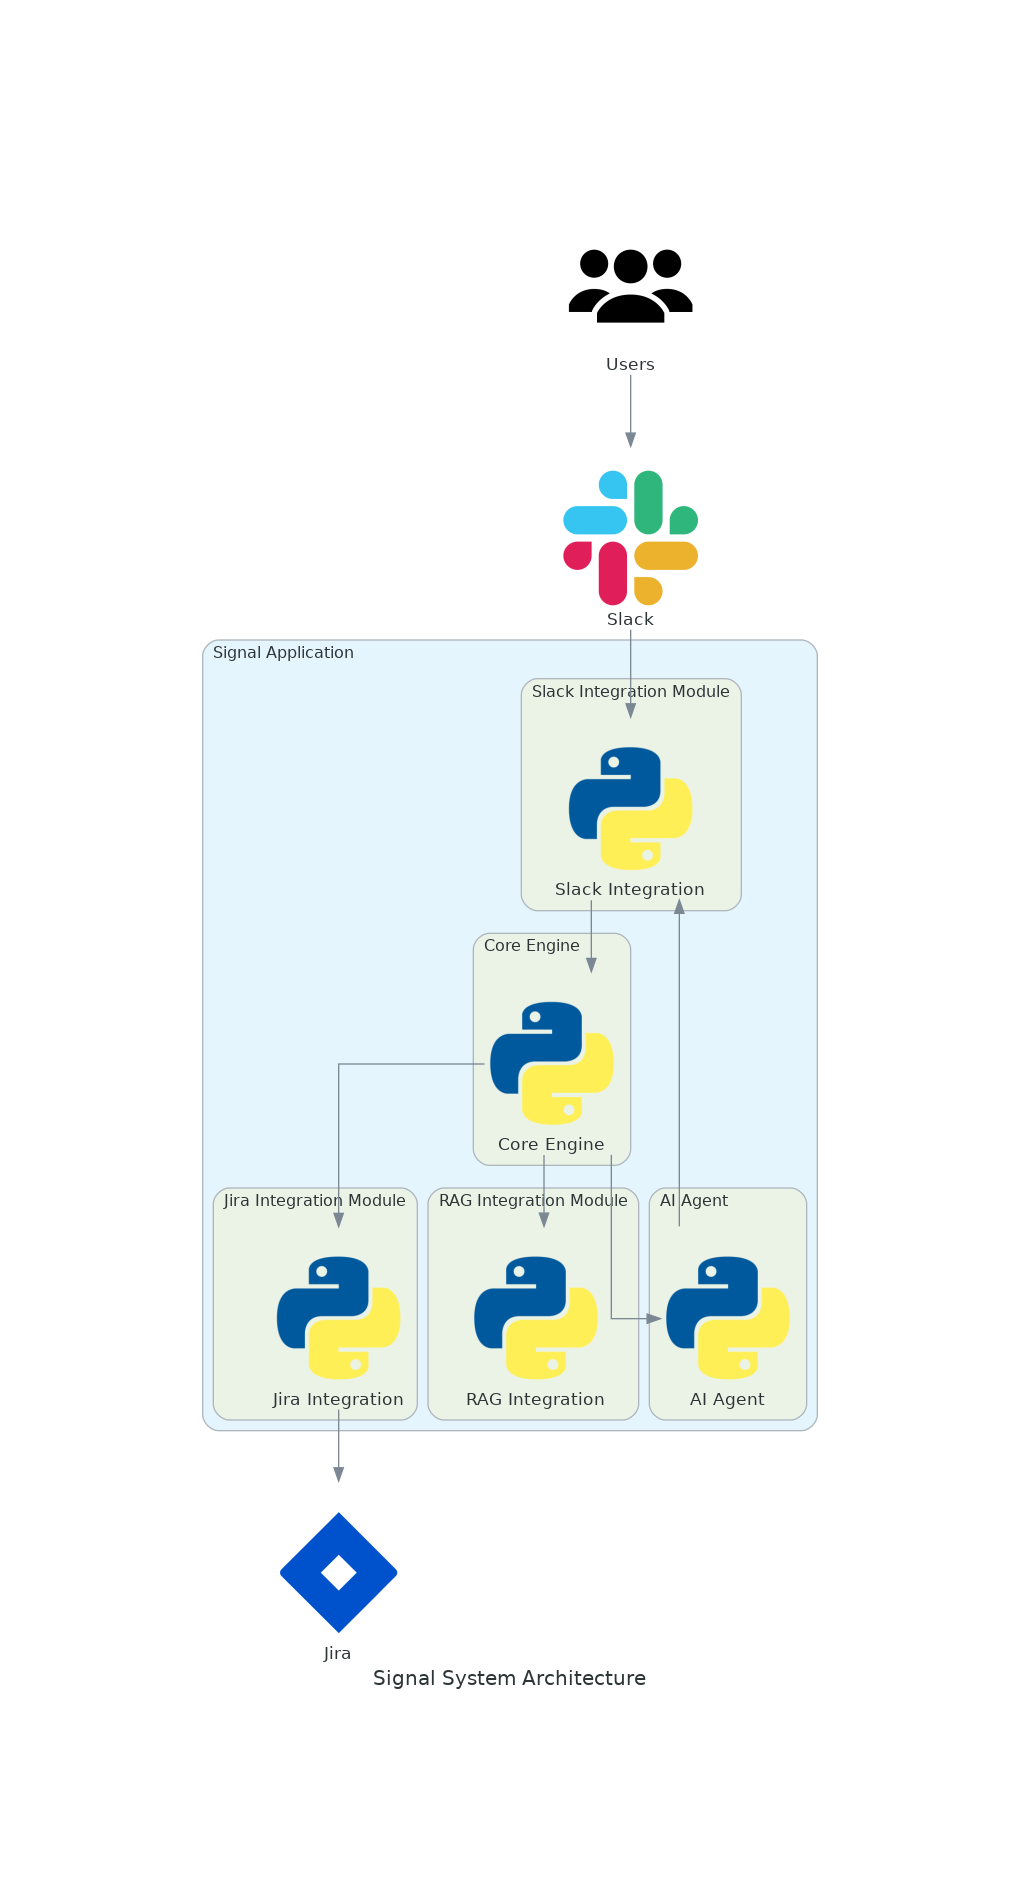
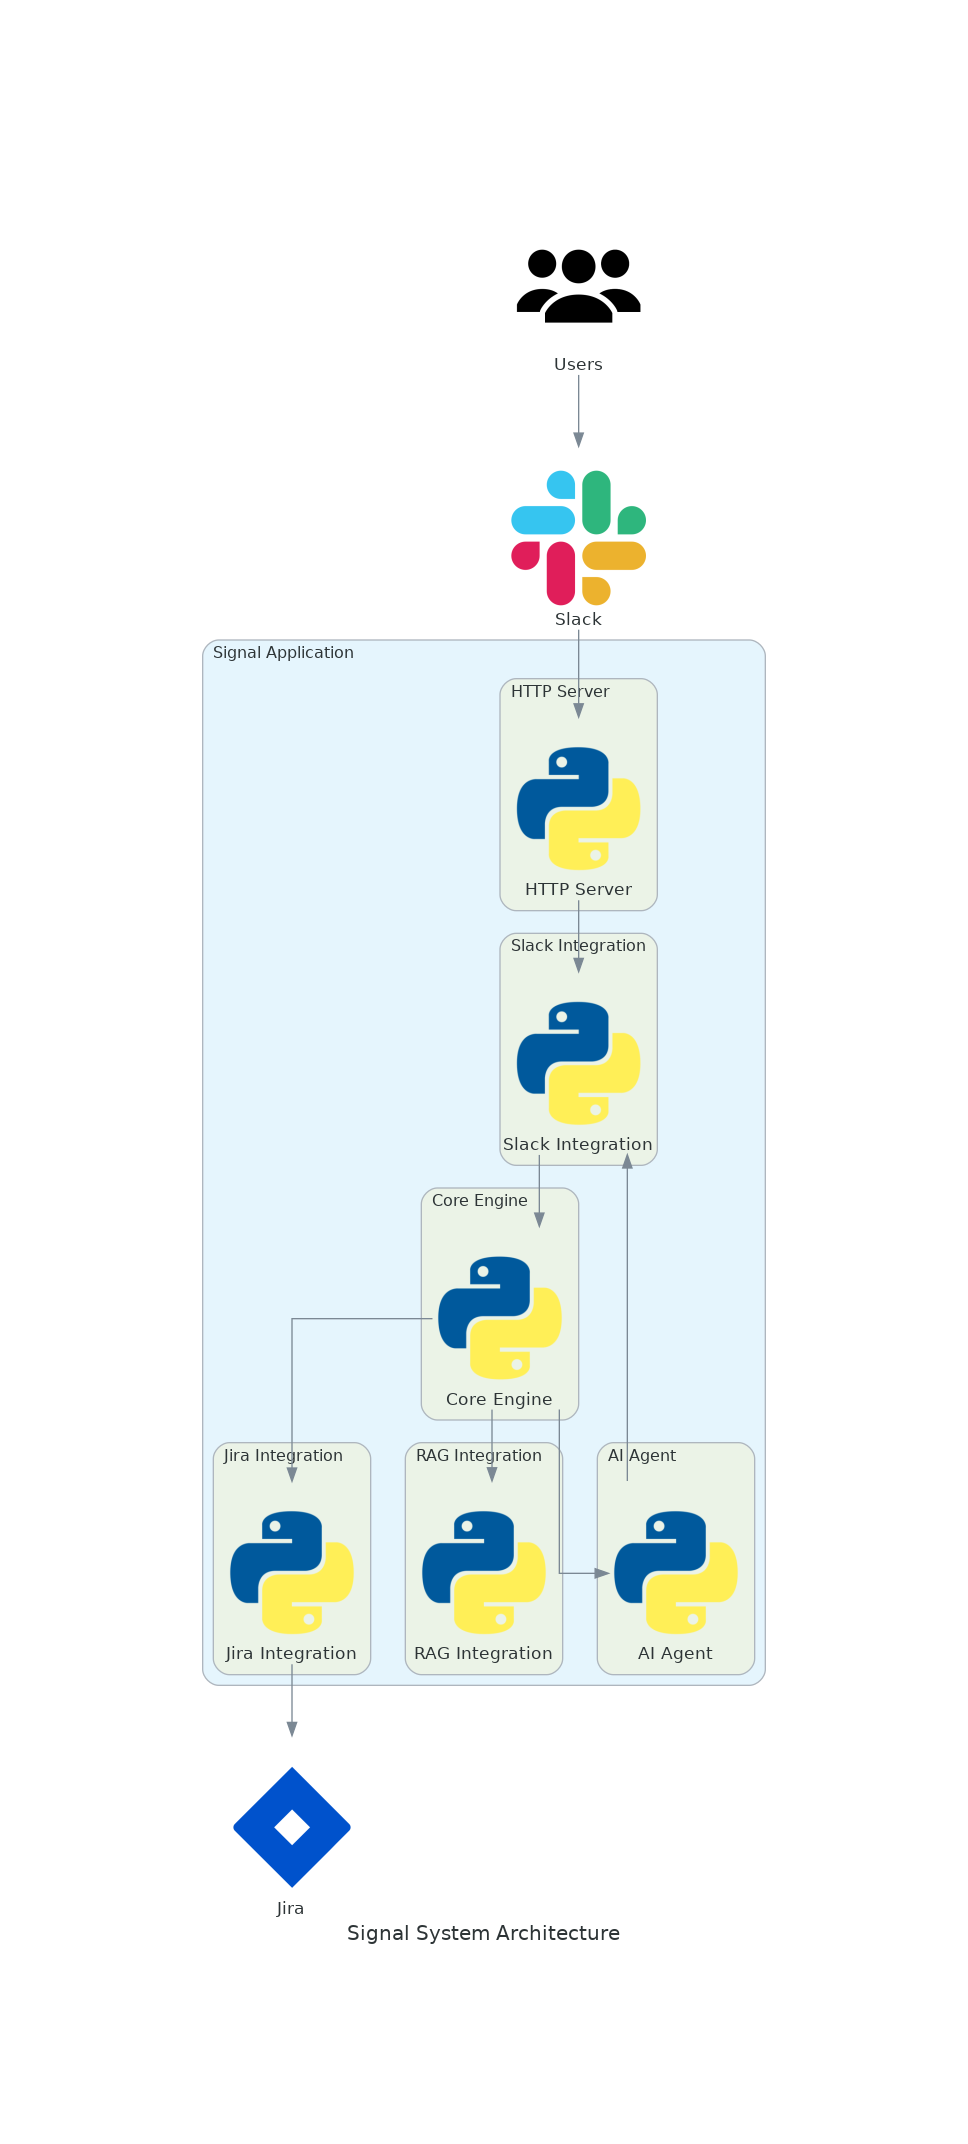
refactor components

Changed region(s): [[0.186, 0.0937, 0.8058, 0.9058], [0.3719, 0.8745, 0.6508, 0.9058]]

diff --git a/tools/generate_diagrams.py b/tools/generate_diagrams.py
@@ -16,19 +16,22 @@ with Diagram(name="Signal System Architecture",
         with Cluster("Core Engine") as core_engine_cluster:
             core_engine: Python = Python("Core Engine")
         
-        with Cluster("Slack Integration Module") as slack_integration_cluster:
+        with Cluster("Slack Integration") as slack_integration_cluster:
             slack_integration: Python = Python("Slack Integration")
         
-        with Cluster("Jira Integration Module") as jira_integration_cluster:
+        with Cluster("Jira Integration") as jira_integration_cluster:
             jira_integration: Python = Python("Jira Integration")
 
-        with Cluster("RAG Integration Module") as rag_integration_cluster:
+        with Cluster("RAG Integration") as rag_integration_cluster:
             rag_integration: Python = Python("RAG Integration")
         
         with Cluster("AI Agent") as ai_agent_cluster:
             ai_agent: Python = Python("AI Agent")
+        
+        with Cluster("HTTP Server") as http_server_cluster:
+            http_server: Python = Python("HTTP Server")
 
-        users >> slack >> slack_integration >> core_engine
+        users >> slack >> http_server >> slack_integration >> core_engine
         core_engine >> ai_agent
         core_engine >> jira_integration >> jira
         core_engine >> rag_integration

diff --git a/src/main.py b/src/main.py
@@ -1,17 +1,25 @@
 import logging
 
-from mocks.slack_integration import MockSlackIntegration
-from components.core_engine import CoreEngine
+from components.slack_integration import SlackIntegration
+from components.slack_web_hooks import SlackWebHooksServer
+from messages.slack_event_message import SlackEventMessage
+from messages.web_hook_message import WebHookMessage
 
 def main():
     logging.basicConfig(level=logging.DEBUG, format='%(asctime)s - %(levelname)s - %(message)s')
 
-    slack_integration = MockSlackIntegration()
-    core_engine = CoreEngine()
+    http_server = SlackWebHooksServer()
+    slack_integration = SlackIntegration()
 
-    slack_integration.register_observer(core_engine)
+    http_server.register_observer(slack_integration)
 
-    slack_integration.message_received("hello world!!")
+    msg = SlackEventMessage()
+
+    http_server.notify_observers(msg)
+
+    tw = WebHookMessage()
+
+    http_server.notify_observers(tw)
 
 if __name__ == "__main__":
     main()

diff --git a/src/common/common.py b/src/common/common.py
@@ -1,0 +1,15 @@
+# from abc import abstractmethod, ABC
+# from common.observer import Observable, Observer
+
+# class Message(ABC):
+#     def handle(self, observer: Observer):
+#         observer.handle_message(self)
+
+# class HttpServer(Observable, ABC):
+#     @abstractmethod
+#     def start(self):
+#         pass
+
+# class SlackIntegration(Observer, Observable, ABC):
+#     def update(self, message: Message):
+#         message.handle(self)

diff --git a/src/common/observer.py b/src/common/observer.py
@@ -1,13 +1,11 @@
 from abc import ABC, abstractmethod
 
 class Observer(ABC):
-    @abstractmethod
     def update(self, message):
-        """
-        Receives update with a message.
+        message.handle(self)
 
-        :param message: The message to be processed.
-        """
+    @abstractmethod
+    def handle_message(self, message):
         pass
 
 class Observable(ABC):

diff --git a/src/components/slack_integration.py b/src/components/slack_integration.py
@@ -1,0 +1,10 @@
+from messages.slack_event_message import SlackEventMessage
+from abc import abstractmethod, ABC
+from common.observer import Observer
+
+class SlackIntegration(Observer, ABC):
+    def __init__(self):
+        super().__init__()
+
+    def handle_message(self, message: SlackEventMessage):
+        print(message.msg)

diff --git a/src/components/slack_web_hooks.py b/src/components/slack_web_hooks.py
@@ -1,0 +1,9 @@
+from common.observer import Observable
+
+class SlackWebHooksServer(Observable):
+    def __init__(self):
+        super().__init__()
+
+    def start(self):
+        pass
+    

diff --git a/src/messages/slack_event_message.py b/src/messages/slack_event_message.py
@@ -1,0 +1,6 @@
+from common.message import Message
+
+class SlackEventMessage(Message):
+    def __init__(self, msg="SlackEventMessage"):
+        super().__init__()
+        self.msg = msg

diff --git a/src/messages/web_hook_message.py b/src/messages/web_hook_message.py
@@ -1,0 +1,6 @@
+from common.message import Message
+
+class WebHookMessage(Message):
+    def __init__(self, msg="WebHookMessage"):
+        super().__init__()
+        self.msg = msg

diff --git a/src/common/message.py b/src/common/message.py
@@ -1,0 +1,5 @@
+from common.observer import Observer
+
+class Message():
+    def handle(self, observer: Observer):
+        observer.handle_message(self)
